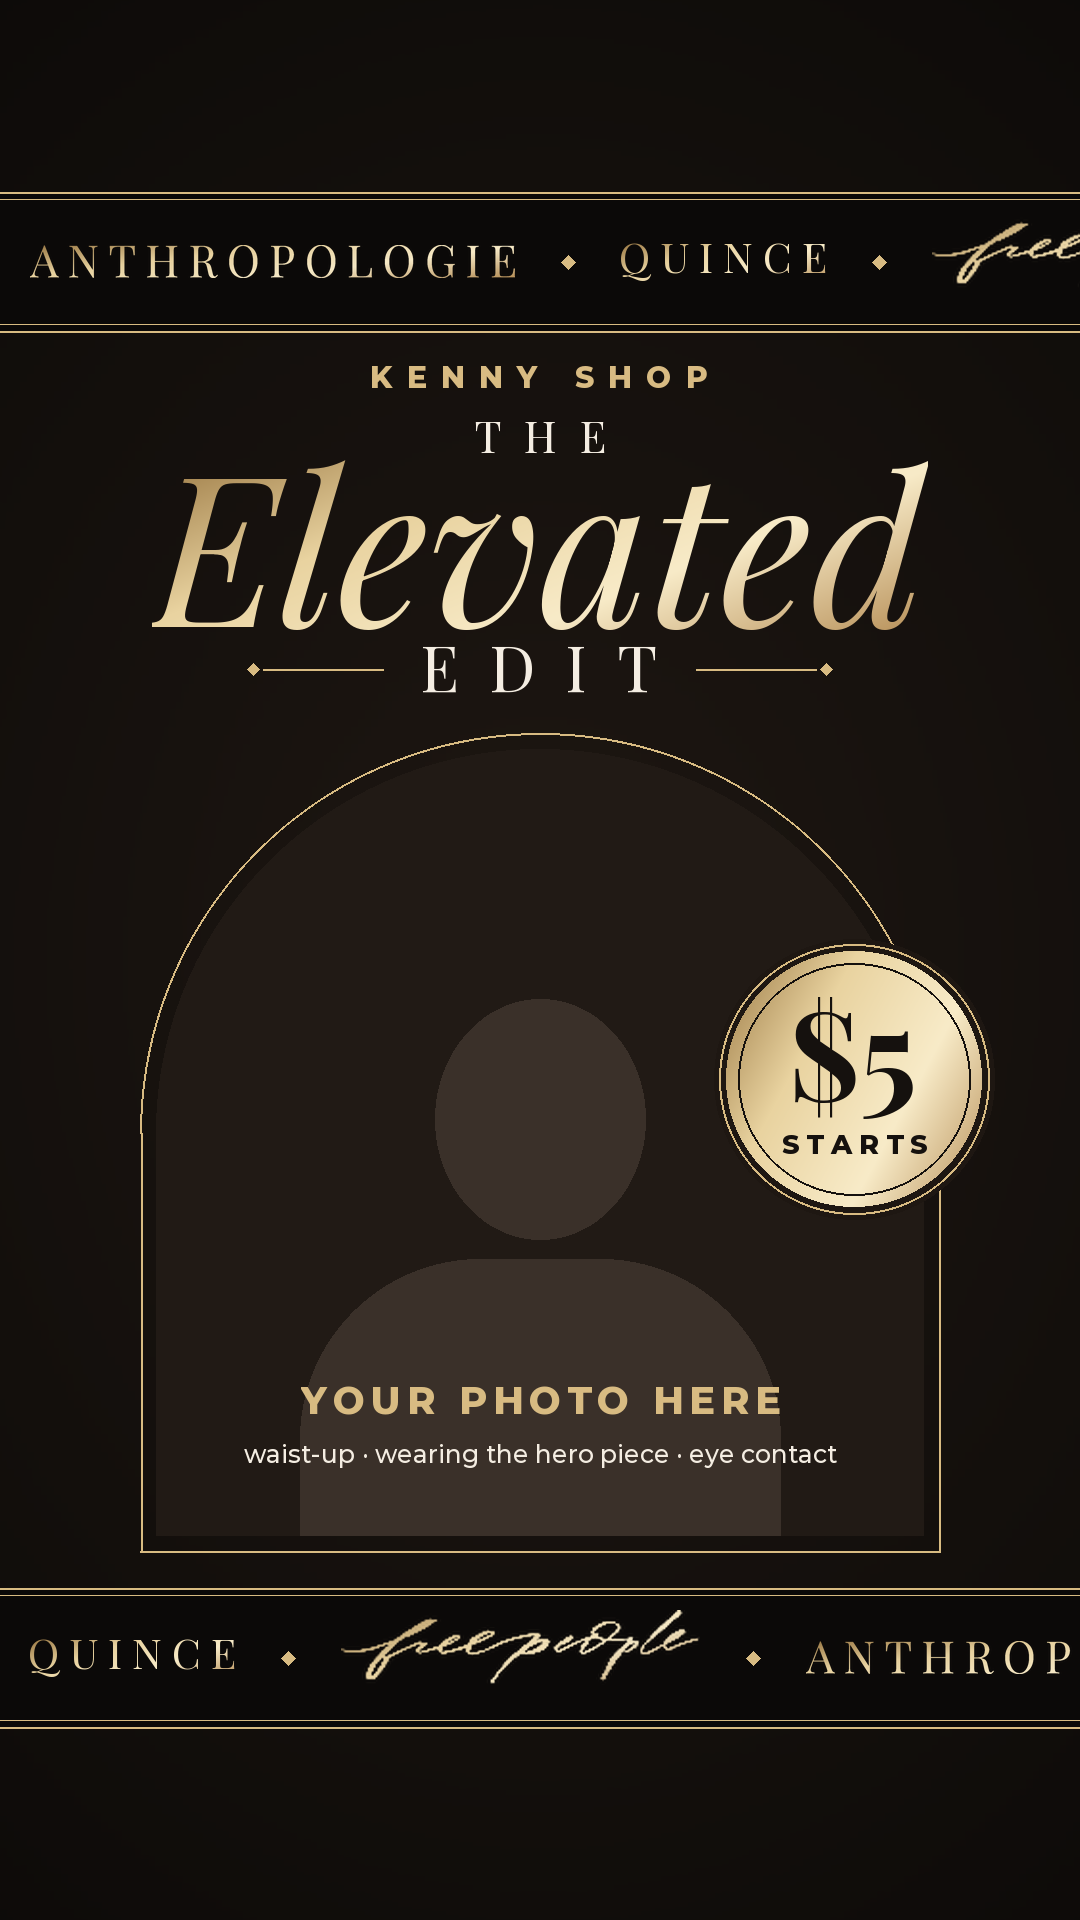
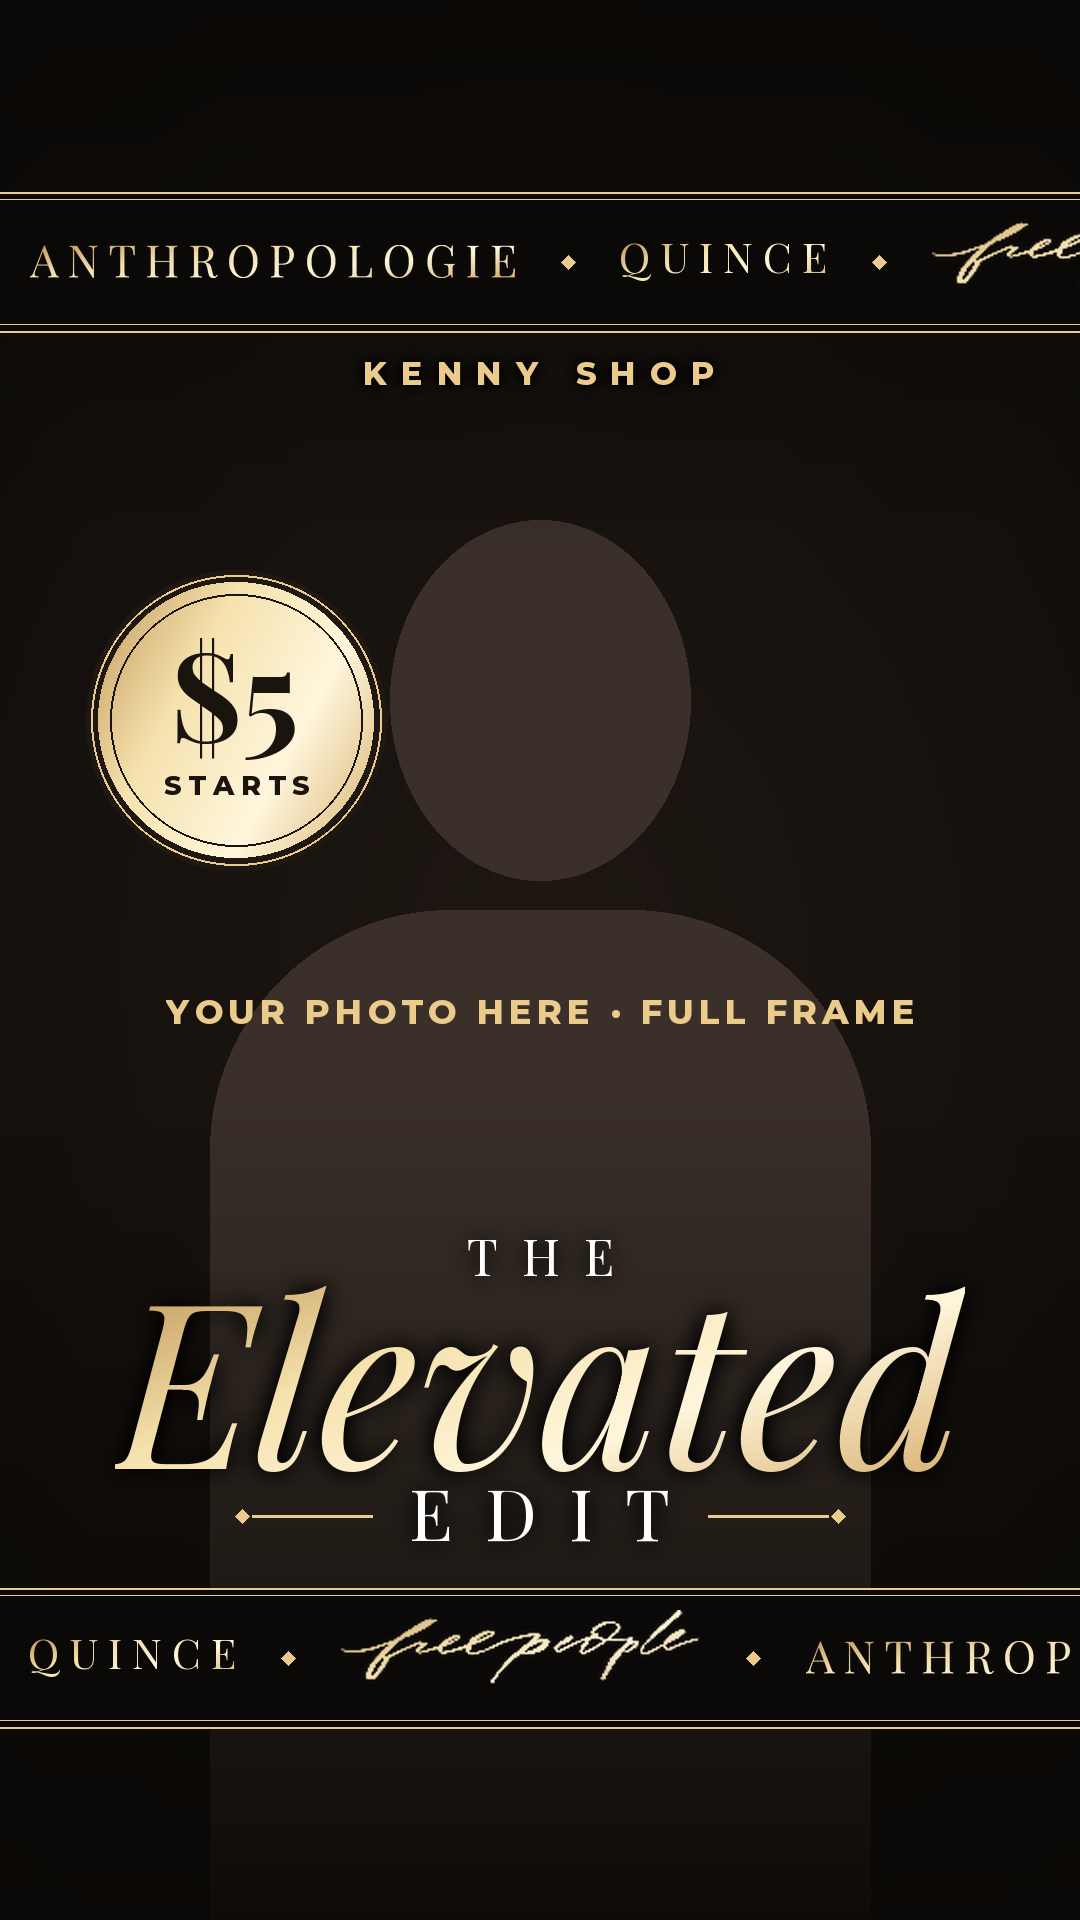
Elevated Edit: full-frame brightened photo cover
Switch The Elevated Edit to a magazine-cover layout: the photo fills the
whole cover, brightened for more pop, with soft fades so the gold title,
brand bands and $5 badge read on top. Lighter, brighter gold.

Claude-Session: https://claude.ai/code/session_01XyNemKhry2R3ahV9ncCFko

diff --git a/02-branding/whatnot-covers/make_covers.py b/02-branding/whatnot-covers/make_covers.py
@@ -46,13 +46,14 @@ SHOWS["premium-contemporary-2"] = dict(
     brands=["FREE PEOPLE", "ANTHROPOLOGIE", "ARITZIA"],
     photo=HERE / "photos" / "contemporary-2.webp", crop=(160, 0, 939, 900),
 )
-# The Elevated Edit: the luxe look (espresso + champagne gold, arched photo).
+# The Elevated Edit: the luxe look (champagne gold on a full-bleed, brightened photo).
 SHOWS["the-elevated-edit"] = dict(
-    style="luxe", bg="#1E1712", bg_edge="#080706", ink="#F4EDE2", band="#0B0908",
-    accent="#D8BB82", gold=("#9C7A45", "#E9D3A0", "#F8EBC8", "#B8915A"), badge_ink="#15110E",
+    style="luxe", layout="full", bg="#1E1712", bg_edge="#080706", ink="#FFFFFF", band="#0B0908",
+    accent="#EBCB8B", gold=("#C29A5B", "#F6E2AE", "#FFF6DC", "#D9B271"), badge_ink="#1A140F",
     photo_bg="#211A15", figure="#3A3029", top="THE", main="Elevated", last="EDIT",
     brands=["ANTHROPOLOGIE", "QUINCE", "FREE PEOPLE"], brand_font=SERIF, brand_spacing=10,
-    start="$5", photo=HERE / "photos" / "elevated-edit.jpg", crop=(0, 430, 1450, 1910), warm=0.04,
+    start="$5", photo=HERE / "photos" / "elevated-edit.jpg", crop=None, warm=0.03, focus=(0.47, 0.30),
+    lift=dict(brightness=1.18, contrast=1.1, color=1.15, sharpness=1.2),
 )
 
 
@@ -386,9 +387,94 @@ def build_luxe(s):
     return c
 
 
+def shade(c, y0, y1, a0, a1, color=(10, 8, 6)):
+    """Dark see-through band fading from alpha a0 at y0 to a1 at y1, for text to read on a photo."""
+    h = y1 - y0
+    grad = Image.linear_gradient("L").resize((1, 256)).resize((W, h))
+    grad = grad.point(lambda v: int(a0 + (a1 - a0) * v / 255))
+    band = Image.new("RGBA", (W, h), color + (0,))
+    band.putalpha(grad)
+    c.alpha_composite(band, (0, y0))
+
+
+def glow(im, radius=10, alpha=170):
+    """Soft dark halo behind text so it holds up on a busy photo."""
+    from PIL import ImageFilter
+    pad = radius * 3
+    out = Image.new("RGBA", (im.width + 2 * pad, im.height + 2 * pad), (0, 0, 0, 0))
+    a = Image.new("L", out.size, 0)
+    a.paste(im.getchannel("A"), (pad, pad))
+    a = a.filter(ImageFilter.GaussianBlur(radius)).point(lambda v: min(255, v * alpha // 100))
+    out.putalpha(a)
+    out.alpha_composite(im, (pad, pad))
+    return out, pad
+
+
+def full_photo(s):
+    """The show photo filling the whole cover, brightened so it pops."""
+    photo = s.get("photo")
+    if not (photo and Path(photo).exists()):
+        c = luxe_bg(s)
+        d = ImageDraw.Draw(c)
+        d.ellipse((W // 2 - 150, 520, W // 2 + 150, 880), fill=s["figure"])
+        d.rounded_rectangle((W // 2 - 330, 910, W // 2 + 330, H + 300), 240, fill=s["figure"])
+        label = text_img("YOUR PHOTO HERE · FULL FRAME", SANS_B, 34, s["accent"], spacing=5)
+        c.alpha_composite(label, ((W - label.width) // 2, 1000))
+        return c
+    ph = Image.open(photo).convert("RGB")
+    r = max(W / ph.width, H / ph.height) * s.get("zoom", 1.0)
+    ph = ph.resize((int(ph.width * r), int(ph.height * r)), Image.LANCZOS)
+    fx, fy = s.get("focus", (0.5, 0.5))
+    x = min(max(int(ph.width * fx - W / 2), 0), ph.width - W)
+    y = min(max(int(ph.height * fy - H * 0.35), 0), ph.height - H)
+    ph = ph.crop((x, y, x + W, y + H))
+    lift = s.get("lift", {})
+    for name, fn in (("brightness", ImageEnhance.Brightness), ("contrast", ImageEnhance.Contrast),
+                     ("color", ImageEnhance.Color), ("sharpness", ImageEnhance.Sharpness)):
+        if name in lift:
+            ph = fn(ph).enhance(lift[name])
+    if s.get("warm"):
+        ph = Image.blend(ph, Image.new("RGB", ph.size, (230, 160, 90)), s["warm"])
+    return ph.convert("RGBA")
+
+
+def build_luxe_full(s):
+    """Magazine-cover layout: photo edge to edge, brand bands and title over it."""
+    c = full_photo(s)
+    sx0, sy0, sx1, sy1 = SAFE
+    shade(c, 0, 560, 200, 0)
+    shade(c, 1080, H, 0, 235)
+    luxe_runner(c, s, sy0)
+    luxe_runner(c, s, sy1 - BAND, start=1)
+    k, pad = glow(text_img("KENNY SHOP", SANS_B, 32, s["accent"], spacing=14), 8, 220)
+    c.alpha_composite(k, ((W - k.width) // 2, sy0 + BAND + 30 - pad))
+    # title block sits on the lower third, just above the bottom band
+    the = text_img(s["top"], SERIF, 50, s["ink"], spacing=24)
+    main = gold_fill(fit_text(s["main"], SERIF_I, sx1 - sx0 - 40, 230, "#FFFFFF"), s)
+    edit = text_img(s["last"], SERIF, 72, s["ink"], spacing=32)
+    total = the.height + 8 + main.height + 18 + edit.height
+    y = sy1 - BAND - 46 - total
+    for im, gap in ((the, 8), (main, 18), (edit, 0)):
+        g, pad = glow(im, 12, 160)
+        c.alpha_composite(g, ((W - g.width) // 2, y - pad))
+        if im is edit:
+            d = ImageDraw.Draw(c)
+            ey = y + edit.height // 2
+            ex0, ex1, rule = (W - edit.width) // 2, (W + edit.width) // 2, 120
+            d.line((ex0 - 40 - rule, ey, ex0 - 40, ey), fill=s["accent"], width=3)
+            d.line((ex1 + 40, ey, ex1 + 40 + rule, ey), fill=s["accent"], width=3)
+            diamond(d, ex0 - 40 - rule - 10, ey, 7, s["accent"])
+            diamond(d, ex1 + 40 + rule + 10, ey, 7, s["accent"])
+        y += im.height + gap
+    bx, by = s.get("badge_at", (sx0 + 150, 720))
+    luxe_badge(c, s, bx, by, 138)
+    return c
+
+
 def build(name, s, out=None):
     if s.get("style") == "luxe":
-        return save(name, s, build_luxe(s), out)
+        made = build_luxe_full(s) if s.get("layout") == "full" else build_luxe(s)
+        return save(name, s, made, out)
     c = Image.new("RGBA", (W, H), s["bg"])
     sx0, sy0, sx1, sy1 = SAFE
     inner = sx1 - sx0 - 40

diff --git a/02-branding/thumbnail-maker.md b/02-branding/thumbnail-maker.md
@@ -54,19 +54,20 @@ slightly low in the strip (`RUNNER_NUDGE` in `make_covers.py`).
 - Outfit: a matching set (Align, Define, Alo) in a color that pops against bright blue (orange, black, white, lime). Avoid blue sets.
 
 ### The Elevated Edit: luxe, $5 starts
-Built to look high-end, so a $5 start reads as a steal. Same order as the shared layout,
-restyled:
-- Background: deep espresso-black with a soft spotlight in the middle
-- Colors: espresso `#1E1712` · champagne gold `#D8BB82` (with a gold sheen on "Elevated" and
-  the badge) · ivory `#F4EDE2` ("THE" and "EDIT")
+Built to look high-end, so a $5 start reads as a steal. Magazine-cover layout: the photo
+fills the whole cover and everything sits on top of it.
+- Photo: full frame, brightened (brighter, more contrast and color, a touch warm) so it pops
+- Light dark fades at the top and bottom so the text reads over the photo
+- Colors: bright champagne gold `#EBCB8B` (with a gold sheen on "Elevated" and the badge) ·
+  white ("THE" and "EDIT")
 - Runners: near-black bands edged with fine double gold lines, gold logos, small gold diamonds
   between them
-- Headline: `THE` (small spaced capitals) · `Elevated` (big gold Playfair Display italic) ·
-  `EDIT` (spaced capitals between gold rules)
-- Photo: an arched window with a thin gold frame around it
-- Badge: gold coin, `$5 STARTS` in dark ink with a fine inner ring
+- `KENNY SHOP` small in gold under the top band
+- Headline on the lower third: `THE` (small spaced capitals) · `Elevated` (big gold Playfair
+  Display italic) · `EDIT` (spaced capitals between gold rules)
+- Badge: gold coin, `$5 STARTS` in dark ink, by the shoulder away from the face (`badge_at`)
 - Brands: Anthropologie logo · Quince (spaced serif capitals until a logo file is added) · Free People logo
-- Outfit: cream, camel, black or soft neutrals look richest on the dark background
+- Photo tips: face in the top half (the title covers the lower third), outfit in frame
 
 ## Templates
 - Main cover photo (blank templates): `whatnot-covers/premium-contemporary.png`, `whatnot-covers/premium-activewear.png`, `whatnot-covers/the-elevated-edit.png`

diff --git a/LESSONS.md b/LESSONS.md
@@ -67,8 +67,10 @@ Claude reads this before every task and adds to it as it goes (see
 - Covers are built by `02-branding/whatnot-covers/make_covers.py` (one entry per show in
   `SHOWS`). Jade's photos and finished covers stay out of git (public repo); send the
   finished cover to her directly.
-- The Elevated Edit (Anthropologie, Quince, Free People) uses the luxe style: espresso +
-  champagne gold, arched photo, $5 starts badge.
+- The Elevated Edit (Anthropologie, Quince, Free People) uses the luxe style: champagne
+  gold, $5 starts badge.
+- Jade wants covers bright and full-frame ("cover photo format"): her photo edge to edge,
+  brightened, text over it. A photo in a frame on a dark background read too dark.
 
 ## Whatnot shows
 
